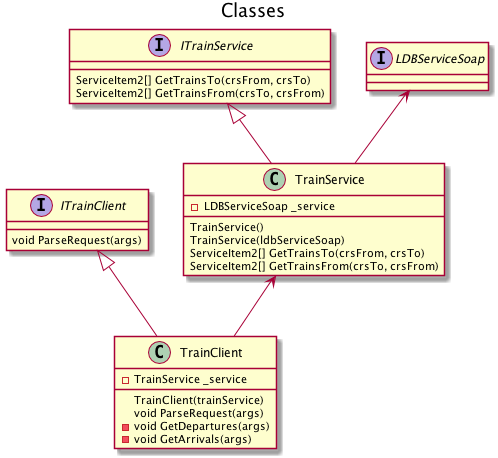
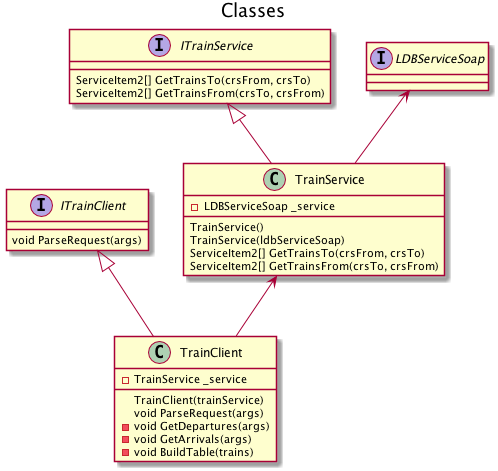
Update comment and diagram

diff --git a/TrainClient.cs b/TrainClient.cs
@@ -75,9 +75,9 @@ namespace trains
             // TODO: Do uppercase CRS conversion better.
             Console.WriteLine($"Showing arrivals into {crsTo.ToUpper()} from {(crsFrom != null ? crsFrom.ToUpper() : "everywhere")}.");
             BuildTable(arrivals);
-            //Console.WriteLine(string.Join(Environment.NewLine, times));
         }
 
+        // TODO: Make this into a more generic array-to-table converter.
         private void BuildTable(IEnumerable<ServiceItem2> trains)
         {
             var longestOrigin = trains.Max(t => t.origin[0].locationName.Length);
